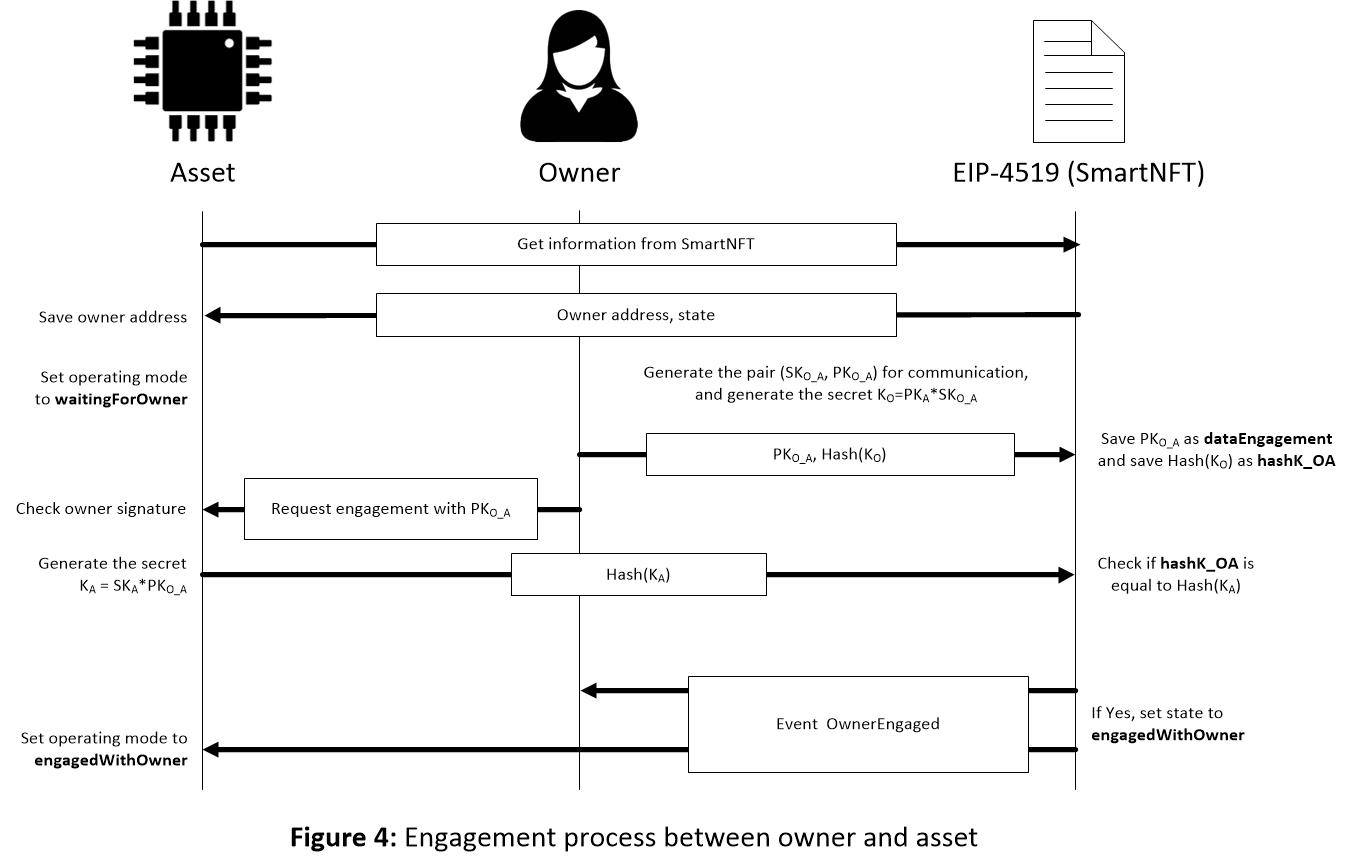
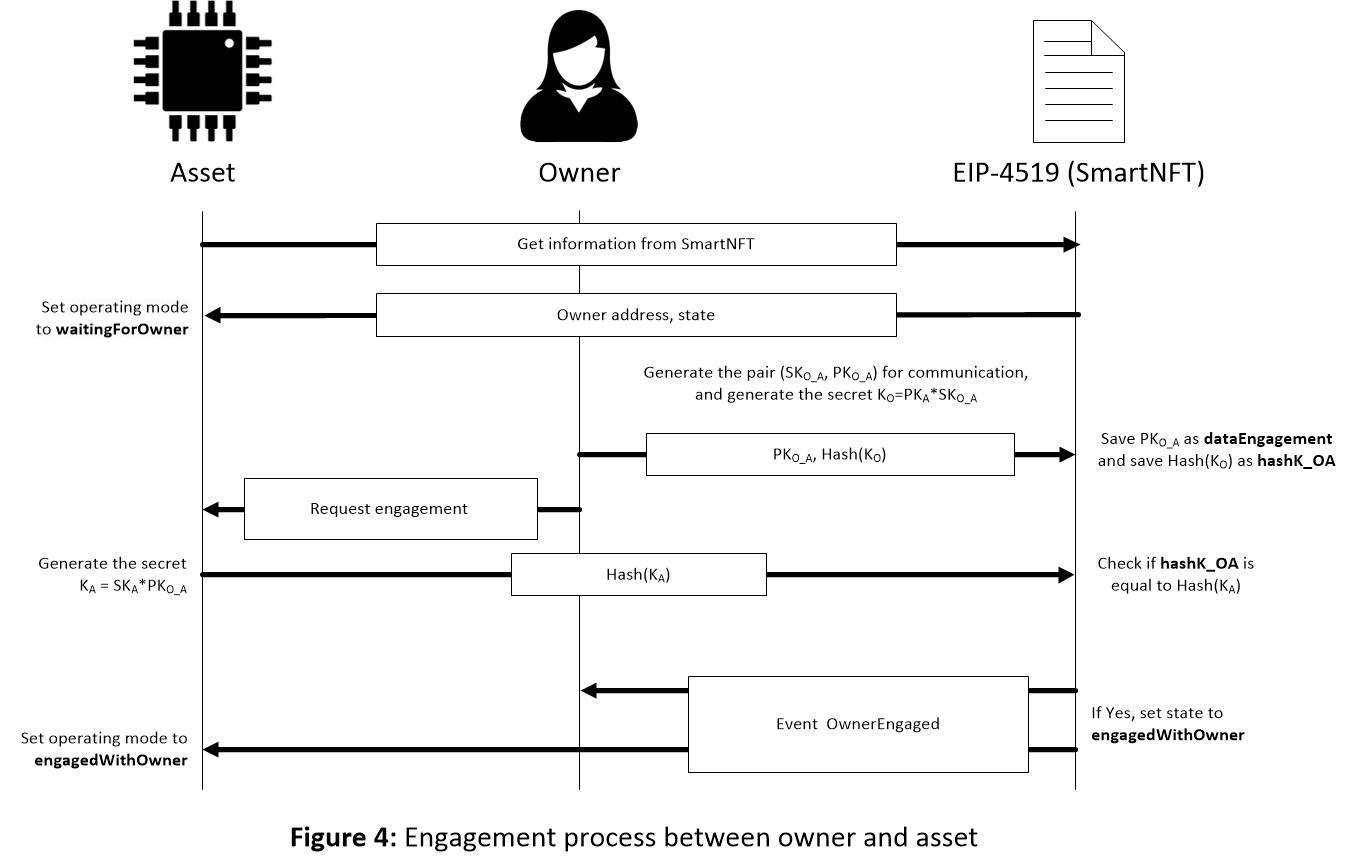
ERC-4519: Change SmartNFT to EIP-4519 NFT  (#5777)
* Title setting to 44 characters

* Update eip-4519.md

* Delete Fig5_rev.png

* Delete Figure4.jpg

* Add files via upload

* Update eip-4519.md

* Update eip-4519.md

* Update eip-4519.md

* Update eip-4519.md

* Update eip-4519.md

* Update eip-4519.md

* Update eip-4519.md

diff --git a/EIPS/eip-4519.md b/EIPS/eip-4519.md
@@ -12,22 +12,22 @@ requires: 165, 721
 ---
 
 ## Abstract
-This EIP proposes a standard interface for non-fungible tokens that represent physical assets, such as Internet of Things (IoT) devices. A SmartNFT is tied to a physical asset that can check if the tie is authentic or not. The SmartNFT can include an Ethereum address of the physical asset and, consequently, the physical asset can sign messages or transactions. The physical asset can operate with an operating mode that is defined by its SmartNFT with an attribute named state. The token state can define if the token owner or the token user can use the asset or not. A cryptographically secure mutual authentication process can be carried out between the physical asset and its owner or its user. SmartNFTs extend [ERC-721](./eip-721.md) non-fungible tokens, which only allow representing assets by a unique identifier, but not by an Ethereum address. Moreover, SmartNFTs extend ERC-721 NFTs to include users in addition to owners.
+This EIP proposes a standard interface for non-fungible tokens that represent physical assets, such as Internet of Things (IoT) devices. A [EIP-4519](./eip-4519.md) NFT is tied to a physical asset that can check if the tie is authentic or not. The EIP-4519 NFT can include an Ethereum address of the physical asset and, consequently, the physical asset can sign messages or transactions. The physical asset can operate with an operating mode that is defined by its EIP-4519 NFT with an attribute named state. The token state can define if the token owner or the token user can use the asset or not. A cryptographically secure mutual authentication process can be carried out between the physical asset and its owner or its user. EIP-4519 NFTs extend [EIP-721](./eip-721.md) non-fungible tokens, which only allow representing assets by a unique identifier, but not by an Ethereum address. Moreover, EIP-4519 NFTs extend EIP-721 NFTs to include users in addition to owners.
  
 ## Motivation
-This SmartNFT was developed because the ERC-721 NFT does not include the users of an asset (only include the owners) and does not include the Ethereum address of the asset. Smart assets (for example, IoT devices) are increasing nowadays. If smart assets are tied to SmartNFTs then they can be managed in a secure and traceable way. The reason is that SmartNFTs, unlike ERC-721 NFTs, allow establishing secure communication channels between the physical asset and its owner and its user. In this way, assets, owners and users can be assured of exchanging information with trusted parties.
+This EIP-4519 NFT was developed because the EIP-721 NFT does not include the users of an asset (only include the owners) and does not include the Ethereum address of the asset. Smart assets (for example, IoT devices) are increasing nowadays. If smart assets are tied to EIP-4519 NFTs then they can be managed in a secure and traceable way. The reason is that EIP-4519 NFTs, unlike EIP-721 NFTs, allow establishing secure communication channels between the physical asset and its owner and its user. In this way, assets, owners and users can be assured of exchanging information with trusted parties.
 
-**Secure Physical Asset Tied  to a SmartNFT**
+**Secure Physical Asset Tied  to a EIP-4519 NFT**
 Current non-fungible tokens are associated with passive assets, either virtual or physical things, but they do not include any standardized mechanism to tie the non-fungible token to the asset. Tying physical assets to NFTs is interesting because the asset can know anytime its owner, user, operating mode, and how to establish secure communication channels with its owner and user. The assets, owners and users are identified by their Ethereum addresses and the Ethereum address of the asset can be obtained from a unique physical property of the physical asset (for example, using a physical unclonable function). The asset can be an active part in any transfer of ownership and use. In addition, the asset is smart, for example to not obey orders from a non-authorized user, or to be inoperative if a successful authentication with the user or the owner has not been fulfilled.
 
 **User Management Mechanism**
-SmartNFTs allow implementing a new and useful user management mechanism. In the last few years, many projects concerning assets sharing (for example, vehicles) have been created and developed. SmartNFTs incorporate the Ethereum address of the user as another attribute of the token in order to distinguish between the user, who employs the asset for a specific application, and the owner, who assigns the token to users. Hence, both users and owners of an asset can be traced.
+EIP-4519 NFTs allow implementing a new and useful user management mechanism. In the last few years, many projects concerning assets sharing (for example, vehicles) have been created and developed. EIP-4519 NFTs incorporate the Ethereum address of the user as another attribute of the token in order to distinguish between the user, who employs the asset for a specific application, and the owner, who assigns the token to users. Hence, both users and owners of an asset can be traced.
 
 **Secure Key Exchange Mechanism**
 The engagement of the asset with an owner or a user is carried out after a mutual authentication protocol (for example, based on elliptic curve Diffie-Hellman key exchange protocol). This protocol can be employed for a key agreement between the asset and its owner, in the one side, and between the asset and its user, in the other side. 
 
 ## Specification
-The SmartNFT attributes `addressAsset` and `addressUser` are, respectively, the Ethereum addresses of the physical asset and the user. They are optional attributes but at least one of them should be used in a SmartNFT. In the case of using only the attribute `addressUser`, two states define if the token is assigned or not to a user. `Figure 1` shows these states in a flow chart. When a token is created, transferred or unassigned, the token state is set to `notAssigned`. If the token is assigned to a valid user, the state is set to `userAssigned`.
+The EIP-4519 NFT attributes `addressAsset` and `addressUser` are, respectively, the Ethereum addresses of the physical asset and the user. They are optional attributes but at least one of them should be used in a EIP-4519 NFT. In the case of using only the attribute `addressUser`, two states define if the token is assigned or not to a user. `Figure 1` shows these states in a flow chart. When a token is created, transferred or unassigned, the token state is set to `notAssigned`. If the token is assigned to a valid user, the state is set to `userAssigned`.
 
 ![Figure 1 : Flow chart of the token states with `addressUser` defined (and `addressAsset` undefined)](../assets/eip-4519/images/Figure1.jpg)
   
@@ -35,17 +35,17 @@ In the case of defining the attribute `addressAsset` but not the attribute `addr
 
 ![Figure 2 : Flow chart of the token states with `addressAsset` defined (and `addressUser` undefined)](../assets/eip-4519/images/Figure2.jpg)
  
-Finally, if both the attributes `addressAsset` and `addressUser` are defined, the states of the SmartNFT define if the asset has been engaged or not with the owner or the user (`waitingForOwner`, `engagedWithOwner`, `waitingForUser` and `engagedWithUser`). The flow chart in `Figure 3` shows all the possible state changes. The states related to the owner are the same as in `Figure 2`. The difference is that, at the state `engagedWithOwner`, the token can be assigned to a user. If a user is assigned (the token being at states `engagedWithOwner`, `waitingForUser` or `engagedWithUser`), then the token changes its state to `waitingForUser`. Once the asset and the user authenticate each other, the state of the token is set to `engagedWithUser`, and the user is able to use the asset.
+Finally, if both the attributes `addressAsset` and `addressUser` are defined, the states of the EIP-4519 NFT define if the asset has been engaged or not with the owner or the user (`waitingForOwner`, `engagedWithOwner`, `waitingForUser` and `engagedWithUser`). The flow chart in `Figure 3` shows all the possible state changes. The states related to the owner are the same as in `Figure 2`. The difference is that, at the state `engagedWithOwner`, the token can be assigned to a user. If a user is assigned (the token being at states `engagedWithOwner`, `waitingForUser` or `engagedWithUser`), then the token changes its state to `waitingForUser`. Once the asset and the user authenticate each other, the state of the token is set to `engagedWithUser`, and the user is able to use the asset.
 
  ![Figure 3 : Flow chart of the token states with `addressUser` and `addressUser` defined](../assets/eip-4519/images/Figure3.jpg)
  
-In order to complete the ownership transfer of a token, the new owner must carry out a mutual authentication process with the asset, which is off-chain with the asset and on-chain with the token, by using their Ethereum addresses. Similarly, a new user must carry out a mutual authentication process with the asset to complete a use transfer. SmartNFTs define how the authentication processes start and finish. These authentication processes allow deriving fresh session cryptographic keys for secure communication between assets and owners, and between assets and users. Therefore, the trustworthiness of the assets can be traced even if new owners and users manage them. 
+In order to complete the ownership transfer of a token, the new owner must carry out a mutual authentication process with the asset, which is off-chain with the asset and on-chain with the token, by using their Ethereum addresses. Similarly, a new user must carry out a mutual authentication process with the asset to complete a use transfer. EIP-4519 NFTs define how the authentication processes start and finish. These authentication processes allow deriving fresh session cryptographic keys for secure communication between assets and owners, and between assets and users. Therefore, the trustworthiness of the assets can be traced even if new owners and users manage them. 
 
-When the SmartNFT is created or when the ownership is transferred, the token state is `waitingForOwner`. Assuming that the asset is an electronic physical asset, it saves in its memory the owner address and sets its operating mode to `waitingForOwner`. The owner generates a pair of keys using the elliptic curve secp256k1 and the primitive element P used on this curve: a secret key SK<sub>O_A</sub> and a Public Key PK<sub>O_A</sub>, so that PK<sub>O_A</sub> = SK<sub>O_A</sub>*P. To generate the shared key between the owner and the asset, K<sub>O</sub>, the public key of the asset, PK<sub>A</sub>, is employed as follows:
+When the EIP-4519 NFT is created or when the ownership is transferred, the token state is `waitingForOwner`. The asset sets its operating mode to `waitingForOwner`. The owner generates a pair of keys using the elliptic curve secp256k1 and the primitive element P used on this curve: a secret key SK<sub>O_A</sub> and a Public Key PK<sub>O_A</sub>, so that PK<sub>O_A</sub> = SK<sub>O_A</sub>*P. To generate the shared key between the owner and the asset, K<sub>O</sub>, the public key of the asset, PK<sub>A</sub>, is employed as follows:
 
 K<sub>O</sub>=PK<sub>A</sub>*SK<sub>O_A</sub>
 
-Using the function `startOwnerEngagement`, the owner saves PK<sub>O_A</sub> as the attribute `dataEngagement` and the hash of K<sub>O</sub> as the attribute `hashK_OA` in the SmartNFT. The owner sends PK<sub>O_A</sub> signed to the asset. The asset checks the signature of the owner and, if signature is correct, the asset uses PK<sub>O_A</sub> to calculate:
+Using the function `startOwnerEngagement`, PK<sub>O_A</sub> is saved as the attribute `dataEngagement` and the hash of K<sub>O</sub> as the attribute `hashK_OA`. The owner sends request engagement to the asset, and the asset calculates:
 
 K<sub>A</sub> = SK<sub>A</sub>*PK<sub>O_A</sub>
 
@@ -57,9 +57,9 @@ Using the function `ownerEngagement`, the asset sends the hash of K<sub>A</sub> 
 
  ![Figure 4: Steps in a successful owner and asset mutual authentication process](../assets/eip-4519/images/Figure4.jpg)
 
-If the asset consults Ethereum and the state of its SmartNFT is `waitingForUser`, the asset (assuming it is an electronic physical asset) saves in its memory the user address and sets its operating mode to `waitingForUser`. Then, a mutual authentication process is carried out with the user, as already done with the owner. The user sends the transaction associated with the function `startUserEngagement`. As in `startOwnerEngagement`, this function saves the public key generated by the user, PK<sub>U_A</sub>, as the attribute `dataEngagement` and the hash of K<sub>U</sub>=PK<sub>A</sub>*SK<sub>U_A</sub> as the attribute `hashK_UA` in the SmartNFT.
+If the asset consults Ethereum and the state of its EIP-4519 NFT is `waitingForUser`, the asset (assuming it is an electronic physical asset) sets its operating mode to `waitingForUser`. Then, a mutual authentication process is carried out with the user, as already done with the owner. The user sends the transaction associated with the function `startUserEngagement`. As in `startOwnerEngagement`, this function saves the public key generated by the user, PK<sub>U_A</sub>, as the attribute `dataEngagement` and the hash of K<sub>U</sub>=PK<sub>A</sub>*SK<sub>U_A</sub> as the attribute `hashK_UA` in the EIP-4519 NFT.
 
-The user sends PK<sub>U_A</sub> signed to the asset. The latter checks the signature of the user and, if signature is correct, the asset uses PK<sub>U_A</sub> to calculate:
+The user sends request engagement and the asset calculates:
 
 K<sub>A</sub> = SK<sub>A</sub>*PK<sub>U_A</sub>
 
@@ -71,14 +71,14 @@ Using the function `userEngagement`, the asset sends the hash of K<sub>A</sub> o
 
  ![Figure 5: Steps in a successful user and asset mutual authentication process](../assets/eip-4519/images/Fig5_rev.png)
 
-Since the establishment of a shared secret key is very important for a secure communication, SmartNFTs include the attributes 
+Since the establishment of a shared secret key is very important for a secure communication, EIP-4519 NFTs include the attributes 
 `hashK_OA`, `hashK_UA` and `dataEngagement`. The first two attributes define, respectively, the hash of the secret key shared between the asset and its owner and between the asset and its user. Assets, owners and users should check they are using the correct shared secret keys. The attribute `dataEngagement` defines the public data needed for the agreement. 
 
 ```solidity
 pragma solidity ^0.8.0;
- /// @title SmartNFT: Extension of ERC-721 Non-Fungible Token Standard. 
-///  Note: the ERC-165 identifier for this interface is 0x8a68abe3
- interface SmartNFT is ERC721/*,ERC165*/{
+ /// @title EIP-4519 NFT: Extension of EIP-721 Non-Fungible Token Standard. 
+///  Note: the EIP-165 identifier for this interface is 0x8a68abe3
+ interface EIP-4519 NFT is EIP721/*,EIP165*/{
     /// @dev This emits when the NFT is assigned as utility of a new user.
     ///  This event emits when the user of the token changes.
     ///  (`_addressUser` == 0) when no user is assigned.
@@ -93,21 +93,21 @@ pragma solidity ^0.8.0;
     event OwnerEngaged(uint256 indexed tokenId);
     
     /// @dev This emits when it is checked that the timeout has expired.
-    ///  This event emits when the timestamp of the SmartNFT is not updated in timeout.
+    ///  This event emits when the timestamp of the EIP-4519 NFT is not updated in timeout.
     event TimeoutAlarm(uint256 indexed tokenId);
     /// @notice This function defines how the NFT is assigned as utility of a new user (if "addressUser" is defined).
-    /// @dev Only the owner of the SmartNFT can assign a user. If "addressAsset" is defined, then the state of the token must be
+    /// @dev Only the owner of the EIP-4519 NFT can assign a user. If "addressAsset" is defined, then the state of the token must be
     /// "engagedWithOwner","waitingForUser" or "engagedWithUser" and this function changes the state of the token defined by "_tokenId" to
     /// "waitingForUser". If "addressAsset" is not defined, the state is set to "userAssigned". In both cases, this function sets the parameter 
     /// "addressUser" to "_addressUser". 
-    /// @param _tokenId is the tokenId of the SmartNFT tied to the asset.
+    /// @param _tokenId is the tokenId of the EIP-4519 NFT tied to the asset.
     /// @param _addressUser is the address of the new user.
     function setUser(uint256 _tokenId, address _addressUser) external payable; 
     /// @notice This function defines the initialization of the mutual authentication process between the owner and the asset.
     /// @dev Only the owner of the token can start this authentication process if "addressAsset" is defined and the state of the token is "waitingForOwner".
     /// The function does not change the state of the token and saves "_dataEngagement" 
     /// and "_hashK_OA" in the parameters of the token.
-    /// @param _tokenId is the tokenId of the SmartNFT tied to the asset.
+    /// @param _tokenId is the tokenId of the EIP-4519 NFT tied to the asset.
     /// @param _dataEngagement is the public data proposed by the owner for the agreement of the shared key.
     /// @param _hashK_OA is the hash of the secret proposed by the owner to share with the asset.
     function startOwnerEngagement(uint256 _tokenId, uint256 _dataEngagement, uint256 _hashK_OA) external payable;
@@ -124,7 +124,7 @@ pragma solidity ^0.8.0;
     /// @dev Only the user of the token can start this authentication process if "addressAsset" and "addressUser" are defined and
     /// the state of the token is "waitingForUser". The function does not change the state of the token and saves "_dataEngagement" 
     /// and "_hashK_UA" in the parameters of the token.
-    /// @param _tokenId is the tokenId of the SmartNFT tied to the asset.
+    /// @param _tokenId is the tokenId of the EIP-4519 NFT tied to the asset.
     /// @param _dataEngagement is the public data proposed by the user for the agreement of the shared key.
     /// @param _hashK_UA is the hash of the secret proposed by the user to share with the asset.
     function startUserEngagement(uint256 _tokenId, uint256 _dataEngagement, uint256 _hashK_UA) external payable;
@@ -140,14 +140,14 @@ pragma solidity ^0.8.0;
     /// @notice This function checks if the timeout has expired.
     /// @dev Everybody can call this function to check if the timeout has expired. The event "TimeoutAlarm" is emitted
     /// if the timeout has expired.
-    /// @param _tokenId is the tokenId of the SmartNFT tied to the asset.
+    /// @param _tokenId is the tokenId of the EIP-4519 NFT tied to the asset.
     /// @return true if timeout has expired and false in other case.
     function checkTimeout(uint256 _tokenId) external returns (bool);
     
     /// @notice This function sets the value of timeout.
     /// @dev Only the owner of the token can set this value provided that the state of the token is "engagedWithOwner",
     /// "waitingForUser" or "engagedWithUser".
-    /// @param _tokenId is the tokenId of the SmartNFT tied to the asset.
+    /// @param _tokenId is the tokenId of the EIP-4519 NFT tied to the asset.
     /// @param _timeout is the value to assign to timeout.
     function setTimeout(uint256 _tokenId, uint256 _timeout) external; 
     
@@ -169,7 +169,7 @@ pragma solidity ^0.8.0;
     
     /// @notice This function lets know the user of the token from its tokenId.
     /// @dev Everybody can call this function. The code executed only reads from Ethereum.
-    /// @param _tokenId is the tokenId of the SmartNFT tied to the asset.
+    /// @param _tokenId is the tokenId of the EIP-4519 NFT tied to the asset.
     /// @return user of the token from its _tokenId.
     function userOf(uint256 _tokenId) external view returns (address);
     
@@ -195,10 +195,10 @@ pragma solidity ^0.8.0;
 ```
  
 ## Rationale
-The demand for SmartNFTs, which allow user management and a tie to a physical asset are growing (for example, in the context of the Internet of Things). Therefore, it is essential to establish a standard capable of including all these options working together or separately. The incorporation of an Ethereum address of the user or an Ethereum address of a physical asset to the SmartNFT is optional. However, it does not make sense that the SmartNFT does not include any of them because, in that case, the SmartNFT would be an ERC-721 token. Since some functions such as `startUserEngagement` are available only if both addresses are implemented, a single interface with all the options is proposed.
+The demand for EIP-4519 NFTs, which allow user management and a tie to a physical asset are growing (for example, in the context of the Internet of Things). Therefore, it is essential to establish a standard capable of including all these options working together or separately. The incorporation of an Ethereum address of the user or an Ethereum address of a physical asset to the EIP-4519 NFT is optional. However, it does not make sense that the EIP-4519 NFT does not include any of them because, in that case, the EIP-4519 NFT would be an EIP-721 token. Since some functions such as `startUserEngagement` are available only if both addresses are implemented, a single interface with all the options is proposed.
 
-**SmartNFT**
-This EIP proposes a non-fungible token tied to a physical asset. The asset is able to generate an Ethereum address and authenticate its user and its owner. Hence, the asset can be considered as a smart asset associated with an NFT. If the asset and the token are regarded as one thing, we can talk about a SmartNFT. 
+**EIP-4519 NFT**
+This EIP proposes a non-fungible token tied to a physical asset. The asset is able to generate an Ethereum address and authenticate its user and its owner. Hence, the asset can be considered as a smart asset associated with an NFT. If the asset and the token are regarded as one thing, we can talk about a EIP-4519 NFT. 
 
 **Authentication**
 This EIP proposes using the smart contract to verify the mutual authentication process between the physical asset and the owner or the user by verifying the hash of a shared key.
@@ -207,18 +207,18 @@ This EIP proposes using the smart contract to verify the mutual authentication p
 This EIP proposes including the attribute timestamp (to register in Ethereum the last time that the physical asset checked the tie with its token) and the attribute timeout (to register the maximum delay time established for the physical asset to prove again the tie). These attributes avoid that a malicious owner or user could use the asset endlessly.
 When the asset calls `updateTimestamp`, the smart contract must call `block.timestamp`, which provides current block timestamp as seconds since Unix epoch. For this reason, `timeout`  must be provided in seconds.
 
-**ERC-721-based**
-[EIP-721](./eip-721.md) is the most commonly-used standard for generic NFTs. This EIP extends ERC-721 for backwards compatibility.
+**EIP-721-based**
+[EIP-721](./eip-721.md) is the most commonly-used standard for generic NFTs. This EIP extends EIP-721 for backwards compatibility.
   
 ## Backwards Compatibility
-This standard is an extension of ERC-721. It is fully compatible with both of the commonly used optional extensions (`IERC721Metadata` and `IERC721Enumerable`) mentioned in the EIP-721 standard.
+This standard is an extension of EIP-721. It is fully compatible with both of the commonly used optional extensions (`IERC721Metadata` and `IERC721Enumerable`) mentioned in the EIP-721 standard.
 ## Test Cases
-The test cases presented in the paper shown below are available [here] (../assets/eip-4519/PoC_SmartNFT/README.md).
+The test cases presented in the paper shown below are available [here](../assets/eip-4519/PoC_SmartNFT/README.md).
 ## Reference Implementation
 A first version was presented in a paper of the Special Issue **Security, Trust and Privacy in New Computing Environments** of **Sensors** journal of **MDPI** editorial. The paper, entitled [Secure Combination of IoT and Blockchain by Physically Binding IoT Devices to Smart Non-Fungible Tokens Using PUFs](../assets/eip-4519/sensors-21-03119.pdf), was written by the same authors of this EIP.
 
 ## Security Considerations
-In this EIP, a generic system has been proposed for the creation of non-fungible tokens tied to physical assets. A generic point of view based on the improvements of the current ERC-721 NFT is provided, such as the implementation of the user management mechanism, which does not affect the token's ownership. The physical asset should have the ability to generate an Ethereum address from itself in a totally random way so that only the asset is able to know the secret from which the Ethereum address is generated. In this way, identity theft is avoided and the asset can be proven to be completely genuine. In order to ensure this, it is recommended that only the manufacturer of the asset has the ability to create its associated token. In the case of an IoT device, the device firmware will be unable to share and modify the secret. Instead of storing the secrets, it is recommended that assets reconstruct their secrets from non-sensitive information such as the helper data associated with Physical Unclonable Functions (PUFs). Although a secure key exchange protocol based on elliptic curves has been proposed, the token is open to coexist with other types of key exchange.  
+In this EIP, a generic system has been proposed for the creation of non-fungible tokens tied to physical assets. A generic point of view based on the improvements of the current EIP-721 NFT is provided, such as the implementation of the user management mechanism, which does not affect the token's ownership. The physical asset should have the ability to generate an Ethereum address from itself in a totally random way so that only the asset is able to know the secret from which the Ethereum address is generated. In this way, identity theft is avoided and the asset can be proven to be completely genuine. In order to ensure this, it is recommended that only the manufacturer of the asset has the ability to create its associated token. In the case of an IoT device, the device firmware will be unable to share and modify the secret. Instead of storing the secrets, it is recommended that assets reconstruct their secrets from non-sensitive information such as the helper data associated with Physical Unclonable Functions (PUFs). Although a secure key exchange protocol based on elliptic curves has been proposed, the token is open to coexist with other types of key exchange.  
 
 ## Copyright
 Copyright and related rights waived via [CC0](../LICENSE.md).
